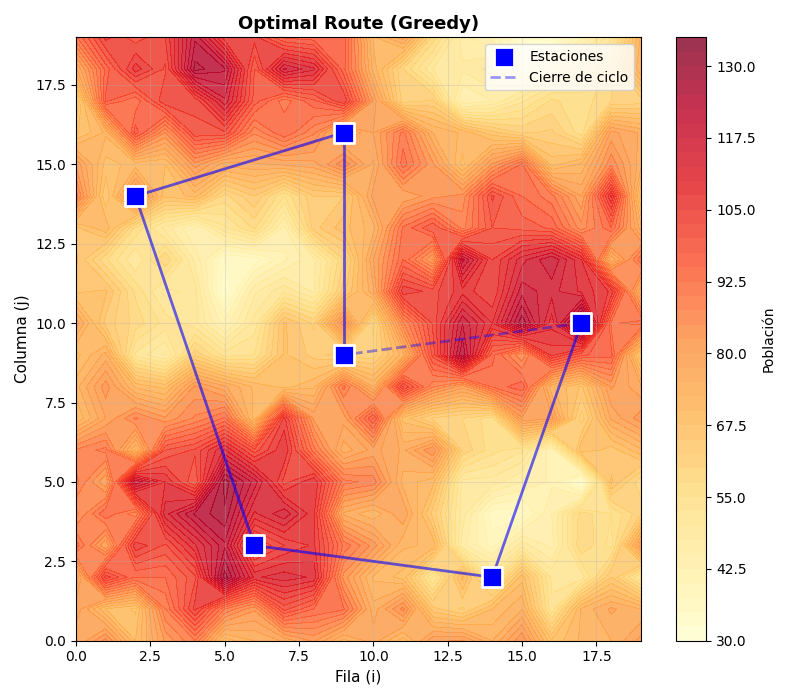
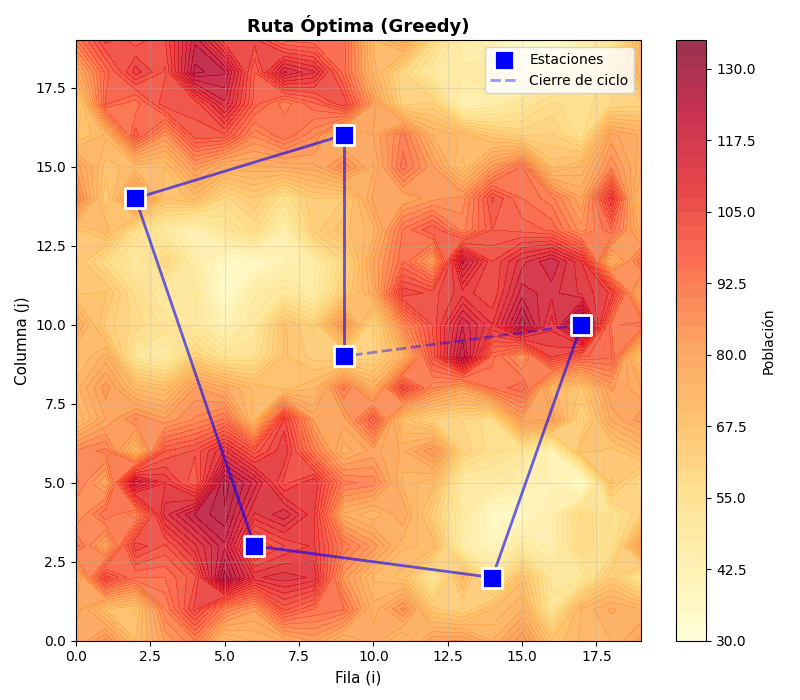
Fix: Merge a main

diff --git a/main.py b/main.py
@@ -6,18 +6,18 @@ from src.p2_demanda import evaluar_configuracion
 from src.p3_optimizacion import optimizar_ruta, visualizar_ruta_sobre_poblacion
 
 def main():
-    # Set reproducibility seed
+    # Semilla de reproducibilidad
     np.random.seed(SEMILLA)
     print(f"Starting Route Optimization Pipeline (Seed: {SEMILLA})")
     print(f"Config: {NUM_ESCENARIOS} scenarios, {N_ESTACIONES} stations\n")
 
-    # 1. Generate Scenarios (Person 1)
+    # 1. Generación de escenarios 
     print("Step 1: Generating population scenarios...")
     escenarios = generar_escenarios(T, NUM_ESCENARIOS)
     print(f"Generated {len(escenarios)} scenarios.\n")
 
-    # 2. Optimization (Person 3 using Person 2's evaluator)
-    # We pass 'evaluar_configuracion' as the evaluating function to the optimizer
+    # 2. Optimización de la ruta 
+    # Pasamos evaluar_configuracion como función de evaluación a optimizar_ruta
     print("Step 2: Optimizing route (this may take a moment)...")
     resultado = optimizar_ruta(
         evaluar_fn=evaluar_configuracion,
@@ -27,7 +27,7 @@ def main():
         verbose=True
     )
 
-    # Print Final Results
+    # Imprimir resultados de optimización
     print("\n" + "="*30)
     print("OPTIMIZATION COMPLETE")
     print(f"Method: {resultado['metodo']}")
@@ -37,13 +37,13 @@ def main():
         print(f"  Station {k+1}: Row {pos[0]}, Col {pos[1]}")
     print("="*30 + "\n")
 
-    # 3. Visualization (Person 3)
+    # 3. Visualización de resultados
     print("Step 3: Visualizing results...")
     # Visualize on the first scenario as a representative example
     fig, ax = visualizar_ruta_sobre_poblacion(
         escenario=escenarios[0],
         estaciones=resultado['estaciones'],
-        titulo=f"Optimal Route ({resultado['metodo'].capitalize()})"
+        titulo=f"Ruta Óptima ({resultado['metodo'].capitalize()})"
     )
 
     plt.savefig('main_result.png')

diff --git a/src/p2_demanda.py b/src/p2_demanda.py
@@ -209,7 +209,6 @@ def evaluar_configuracion(escenarios, estaciones):
 
     for k, pob in enumerate(escenarios):
         pop_flat = pob.flatten().astype(float)
-        # w_e = Σ_{o≠d} pop(o)*pop(d) = pop_total² − ||pop||²
         pesos[k]  = pop_flat.sum() ** 2 - np.dot(pop_flat, pop_flat)
         costos[k] = calcular_costo_escenario(pob, estaciones)
 
@@ -261,7 +260,7 @@ def costo_por_nodo(pob, estaciones):
 if __name__ == '__main__':
     np.random.seed(0)
 
-    # --- Población sintética uniforme ---
+    # Población sintética uniforme
     pob_uniforme = np.ones((C, R))
 
     # 1. probabilidades_destino suma 1 y excluye origen